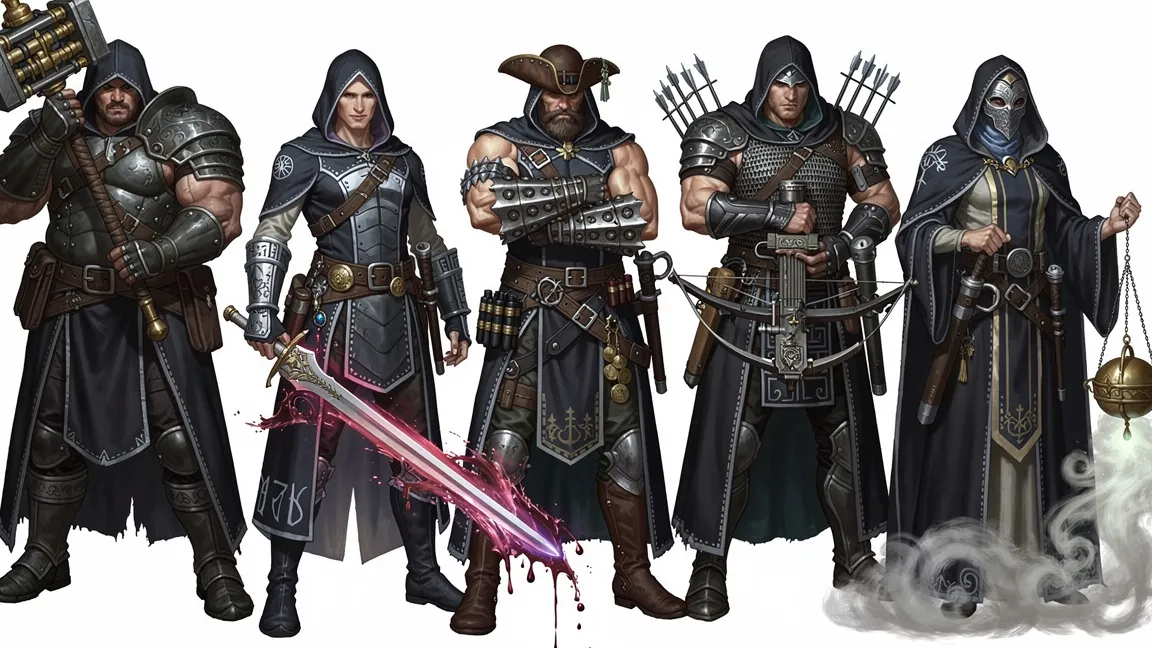
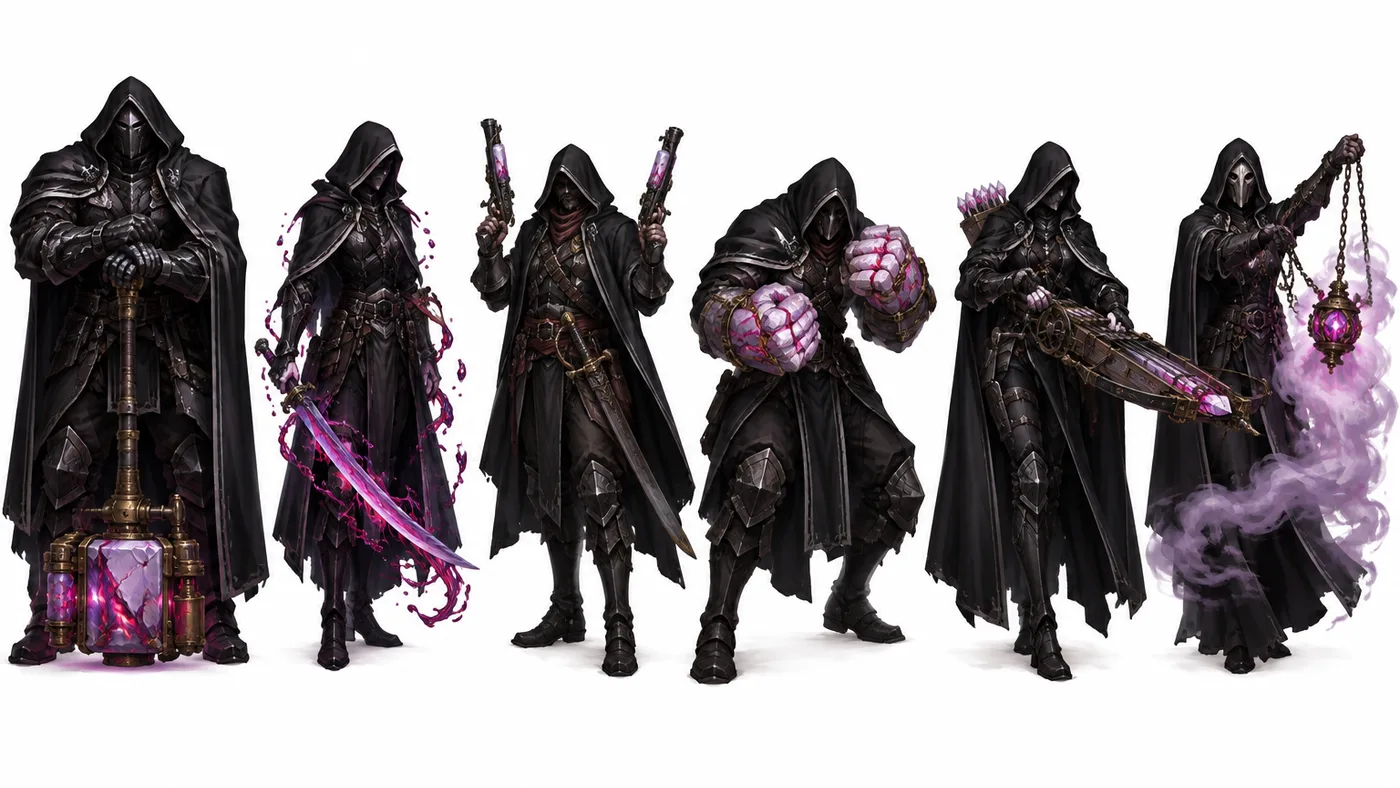
Moonwake: the Stillstone Order
The Moonwatch, the armoury and the Still are redrawn as the Stillstone
Order, generated with GPT Image through Figma:
- stillstone joins the lore: pale stone from the bed of the Moonwell that
  drinks magic, stores it and gives it back (Magic chapter, Moonwatch facts)
- guard sheet: dark plate with stillstone panels, wine surcoat, one
  crescent (horns down)
- armoury: knightly steel, and discharge weapons with stillstone cores
  (replaces the well-craft sheet)
- the Still: two sheets of six, each with a stillstone relic; the roster
  and character text follow

diff --git a/src/data/codex.ts b/src/data/codex.ts
@@ -54,13 +54,14 @@ export const codex: CodexTab[] = [
     id: "magic",
     label: "Magic",
     lead: "Not blood, not runes. Water.",
-    body: "Under the city lies the Moonwell, a still reservoir of power. Its light is red-violet, like a lamp seen through fog. The well is not endless: what is drawn must be returned, so once a year, in the Quiet Hour, the whole city falls silent for one hour while the pool is fed. No one speaks. That silence is where the motto comes from.",
+    body: "Under the city lies the Moonwell, a still reservoir of power. Its light is red-violet, like a lamp seen through fog. The well is not endless: what is drawn must be returned, so once a year, in the Quiet Hour, the whole city falls silent for one hour while the pool is fed. No one speaks. That silence is where the motto comes from. The bed of the well gives up stillstone, a pale stone that drinks magic, holds it, and gives it back.",
     facts: [
       { label: "Source", value: "The Moonwell, a still reservoir of water beneath the city" },
       { label: "Colour", value: "Red-violet, like a lamp seen through fog" },
       { label: "Cost", value: "It has a limit and must be refilled" },
       { label: "Who may use it", value: "Anyone born of the house, and anyone the house adopts. The pool chooses; it doesn't inherit" },
       { label: "Ritual", value: "The Quiet Hour: once a year, the city is silent for one hour and the pool is fed" },
+      { label: "Stillstone", value: "Pale stone cut from the bed of the well. It soaks up magic and stores it, glowing red-violet as it fills; when it drinks a spell, the air goes quiet. The walls, the armour and the weapons of the city are set with it" },
     ],
   },
   {
@@ -109,7 +110,8 @@ export const codex: CodexTab[] = [
       { label: "Elite unit", value: "The Still: twelve who never speak in combat" },
       { label: "Battle cry", value: "\"Quiet.\" That's the whole cry" },
       { label: "Famous victory", value: "The Bridge Stand: outnumbered ten to one, the bridge held all night" },
-      { label: "Arms", value: "Steel from the sea and the knights (Dane axe, longsword, poleaxe) and well-craft: rifles and guns fed by Moonwell water" },
+      { label: "Arms", value: "Knightly steel set with stillstone, and discharge weapons (rifles, pistols, maces, lanterns) that fire back the magic the stone has stored" },
+      { label: "Order", value: "The Stillstone Order: dark plate with pale stillstone panels that brighten after they block a spell" },
       { label: "Rarest unit", value: "The Wyrmwatch: riders on armoured war wyverns" },
     ],
   },
@@ -212,11 +214,11 @@ export const conceptGalleries: { id: string; label: string; tiles: ConceptTile[]
     id: "military",
     label: "The Moonwatch",
     tiles: [
-      { src: "/offline/moonwake/concept/watch-soldier.webp", span: 2, sheet: true, title: "The Moonwatch", text: "Wine greatcoats over plate, mist-masks for the fog, rifles with long bayonets. Patient, defensive, impossible to hurry." },
-      { src: "/offline/moonwake/concept/arms-steel.webp", span: 2, sheet: true, title: "The armoury: steel", text: "Dane axes and seax from the sea, longswords, poleaxes and flails from the knights, and trench clubs for the bridge." },
-      { src: "/offline/moonwake/concept/arms-wellcraft.webp", span: 2, sheet: true, title: "The armoury: well-craft", text: "Rifles, pistols, harpoon guns, arbalests and piston hammers, all fed by vials of Moonwell water." },
-      { src: "/offline/moonwake/concept/still-1.webp", span: 2, sheet: true, title: "The Still", text: "Twelve who never speak, each with a weapon and a way of fighting all their own. One cloak, twelve styles." },
-      { src: "/offline/moonwake/concept/still-2.webp", span: 2, sheet: true, title: "The Still, continued", text: "The gate-breaker, the mage-swordsman, the privateer, the arbalest and the censer." },
+      { src: "/offline/moonwake/concept/watch-soldier.webp", span: 2, sheet: true, title: "The Moonwatch", text: "Knights of the Stillstone Order: dark plate with pale stillstone panels, wine surcoats, a stillstone-cored rifle on the back. Patient, defensive, impossible to hurry." },
+      { src: "/offline/moonwake/concept/arms-steel.webp", span: 2, sheet: true, title: "The armoury: steel", text: "Longswords, halberds, maces and war hammers for the Order, a Dane axe for the harbour militia. Stillstone in the pommels and the shield bosses." },
+      { src: "/offline/moonwake/concept/arms-stillstone.webp", span: 2, sheet: true, title: "The armoury: discharge", text: "Rifles, pistols, maces, grenades and lanterns built around stillstone cores. They fire back the magic the stone has drunk." },
+      { src: "/offline/moonwake/concept/still-1.webp", span: 2, sheet: true, title: "The Still, I to VI", text: "Twelve who never speak, each carrying one stillstone relic with a different stored spell. One cloak, twelve ways of fighting." },
+      { src: "/offline/moonwake/concept/still-2.webp", span: 2, sheet: true, title: "The Still, VII to XII", text: "The gate-breaker, the mage-swordsman, the privateer, the grappler, the arbalest and the censer." },
       { src: "/offline/moonwake/concept/wyvern.webp", span: 2, sheet: true, title: "War wyvern", text: "Two legs, wings for arms. Plate barding over wine-red quilting, and a saddle for one." },
       { src: "/offline/moonwake/concept/wyrmwatch.webp", span: 2, title: "The Wyrmwatch", text: "The Moonwatch's rarest unit: wyvern riders who patrol the cliffs and the sea lanes." },
       { src: "/offline/moonwake/codex-moonwatch.webp", span: 2, title: "The Bridge Stand", text: "The battle cry is one word: \"Quiet.\"" },
@@ -229,16 +231,16 @@ export const conceptGalleries: { id: string; label: string; tiles: ConceptTile[]
  * cloak with silver trim for all; everything else is their own.
  */
 export const stillRoster: { n: string; weapon: string; style: string }[] = [
-  { n: "I", weapon: "A greatsword, never drawn", style: "The First. Ends fights without unsheathing" },
-  { n: "II", weapon: "Twin seax", style: "Ambush in the fog" },
-  { n: "III", weapon: "Long well-rifle", style: "The watchtower marksman" },
-  { n: "IV", weapon: "Poleaxe", style: "The formal duellist" },
-  { n: "V", weapon: "Flail and tower shield", style: "Holds the line alone" },
+  { n: "I", weapon: "A greatsword, never drawn; the stone glows through the scabbard", style: "The First. Ends fights without unsheathing" },
+  { n: "II", weapon: "Twin daggers with stillstone pommels", style: "Ambush in the fog" },
+  { n: "III", weapon: "A long stillstone-cored rifle", style: "The watchtower marksman" },
+  { n: "IV", weapon: "A poleaxe with a stillstone head", style: "The formal duellist" },
+  { n: "V", weapon: "A flail, and a tower shield cut from one slab of stillstone", style: "Holds the line alone; drinks every spell aimed at it" },
   { n: "VI", weapon: "Harpoon gun and chain", style: "Drags enemies off the bridge" },
-  { n: "VII", weapon: "Piston hammer", style: "Breaks gates" },
-  { n: "VIII", weapon: "A curved blade that carries well-water", style: "The mage-swordsman" },
-  { n: "IX", weapon: "Flintlocks and a sabre", style: "The former privateer" },
-  { n: "X", weapon: "Steel gauntlets", style: "Grappler. Brings nothing else" },
-  { n: "XI", weapon: "Repeating arbalest", style: "Siege and alchemical bolts" },
-  { n: "XII", weapon: "A censer of mist", style: "Blinds the whole field" },
+  { n: "VII", weapon: "A piston hammer with a stillstone head", style: "Breaks gates" },
+  { n: "VIII", weapon: "A curved blade that trails well-water", style: "The mage-swordsman" },
+  { n: "IX", weapon: "Flintlocks with stillstone cylinders, and a sabre", style: "The former privateer" },
+  { n: "X", weapon: "Stillstone gauntlets", style: "Grappler. Brings nothing else" },
+  { n: "XI", weapon: "A repeating arbalest with stillstone bolts", style: "Siege" },
+  { n: "XII", weapon: "A stillstone censer that pours mist", style: "Blinds the whole field" },
 ];

diff --git a/src/data/offline.ts b/src/data/offline.ts
@@ -155,7 +155,7 @@ export const characters: Character[] = [
     name: "The Moonwatch",
     image: "/offline/moonwake/concept/watch-soldier.webp",
     bio: [
-      "The city's guard: wine greatcoats over plate, mist-masks for the fog, and rifles with long bayonets fed by Moonwell water. They fight patiently and defensively, and their most famous battle is one they never had to start: the Bridge Stand.",
+      "The city's guard, knights of the Stillstone Order: dark plate set with pale stillstone that drinks the spells thrown at it, wine surcoats, and rifles that fire that magic back. They fight patiently and defensively, and their most famous battle is one they never had to start: the Bridge Stand.",
       "Their battle cry is a single word. \"Quiet.\"",
     ],
     cells: [
@@ -168,11 +168,11 @@ export const characters: Character[] = [
     name: "The Still",
     image: "/offline/moonwake/concept/still-1.webp",
     bio: [
-      "Twelve who never speak, numbered First to Twelfth. They share one black hooded cloak with silver trim and nothing else: each has a weapon and a way of fighting all their own, from the First's greatsword that is never drawn to the Twelfth's censer of mist.",
+      "Twelve who never speak, numbered First to Twelfth. They share one black hooded cloak with silver trim and nothing else: each carries one stillstone relic holding a different stored spell, from the First's greatsword that is never drawn to the Twelfth's censer of mist.",
     ],
     cells: [
       { label: "Class", value: "Silent guard, ranked I to XII" },
-      { label: "Arms", value: "Twelve, one each" },
+      { label: "Relics", value: "Twelve stillstone relics, one each" },
     ],
   },
   {

diff --git a/docs/offline/moonwake.md b/docs/offline/moonwake.md
@@ -155,3 +155,7 @@ Each phase is checked in the browser on desktop and phone before the next.
 ## 8. Open items
 
 - Optional: real names for the Codex characters beyond Gilang Maulana I and Yuki.
+
+## 9. Military look: the Stillstone Order
+
+Chosen November 2026 over Trench Crusade, Lantern Watch, Tide Knights and other directions. The bed of the Moonwell yields **stillstone**, pale stone that soaks up magic, stores it and glows red-violet as it fills (Moonwake's own material, deliberately different from Demacia's petricite: it gives magic back). The Moonwatch are knights in dark plate set with stillstone panels, wine surcoats, one crescent (horns down) on the chest. The armoury is knightly steel plus discharge weapons with stillstone cores. Each of the Still carries one stillstone relic with a different stored spell (roster: `stillRoster` in `src/data/codex.ts`). Art: `public/offline/moonwake/concept/` (`watch-soldier`, `arms-steel`, `arms-stillstone`, `still-1`, `still-2`), generated with GPT Image through Figma (file: Moonwake concept art).
